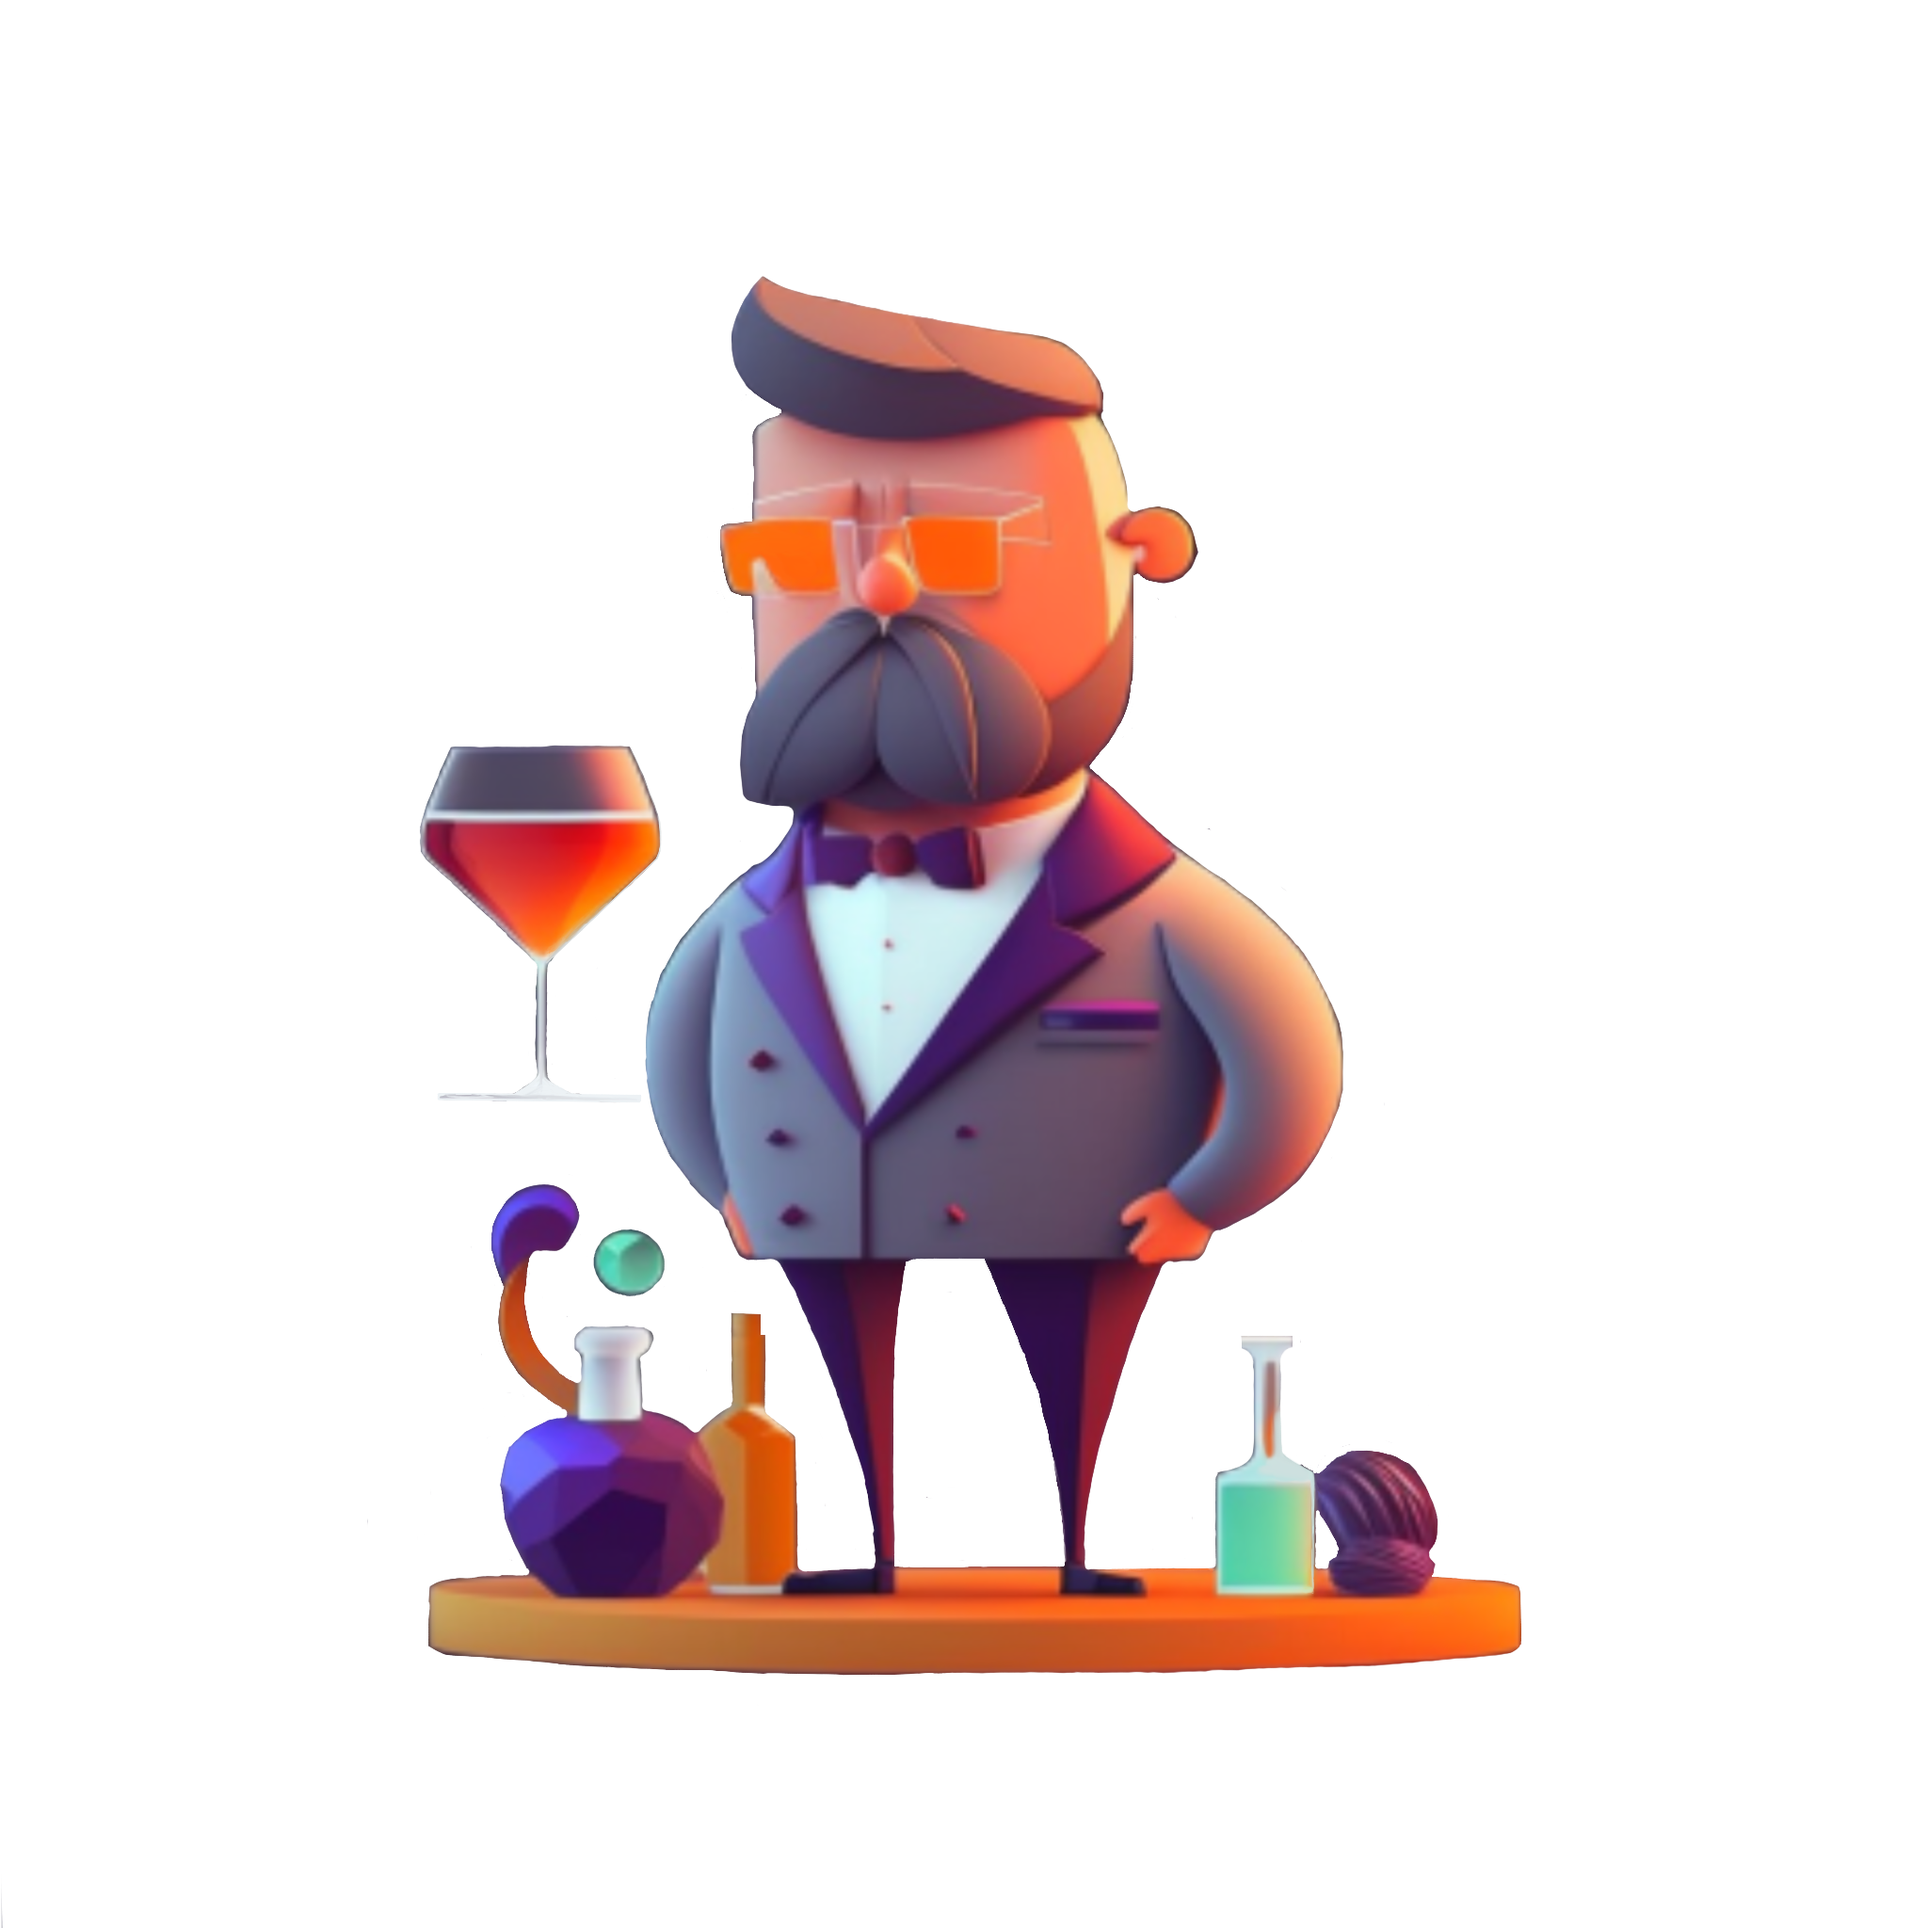
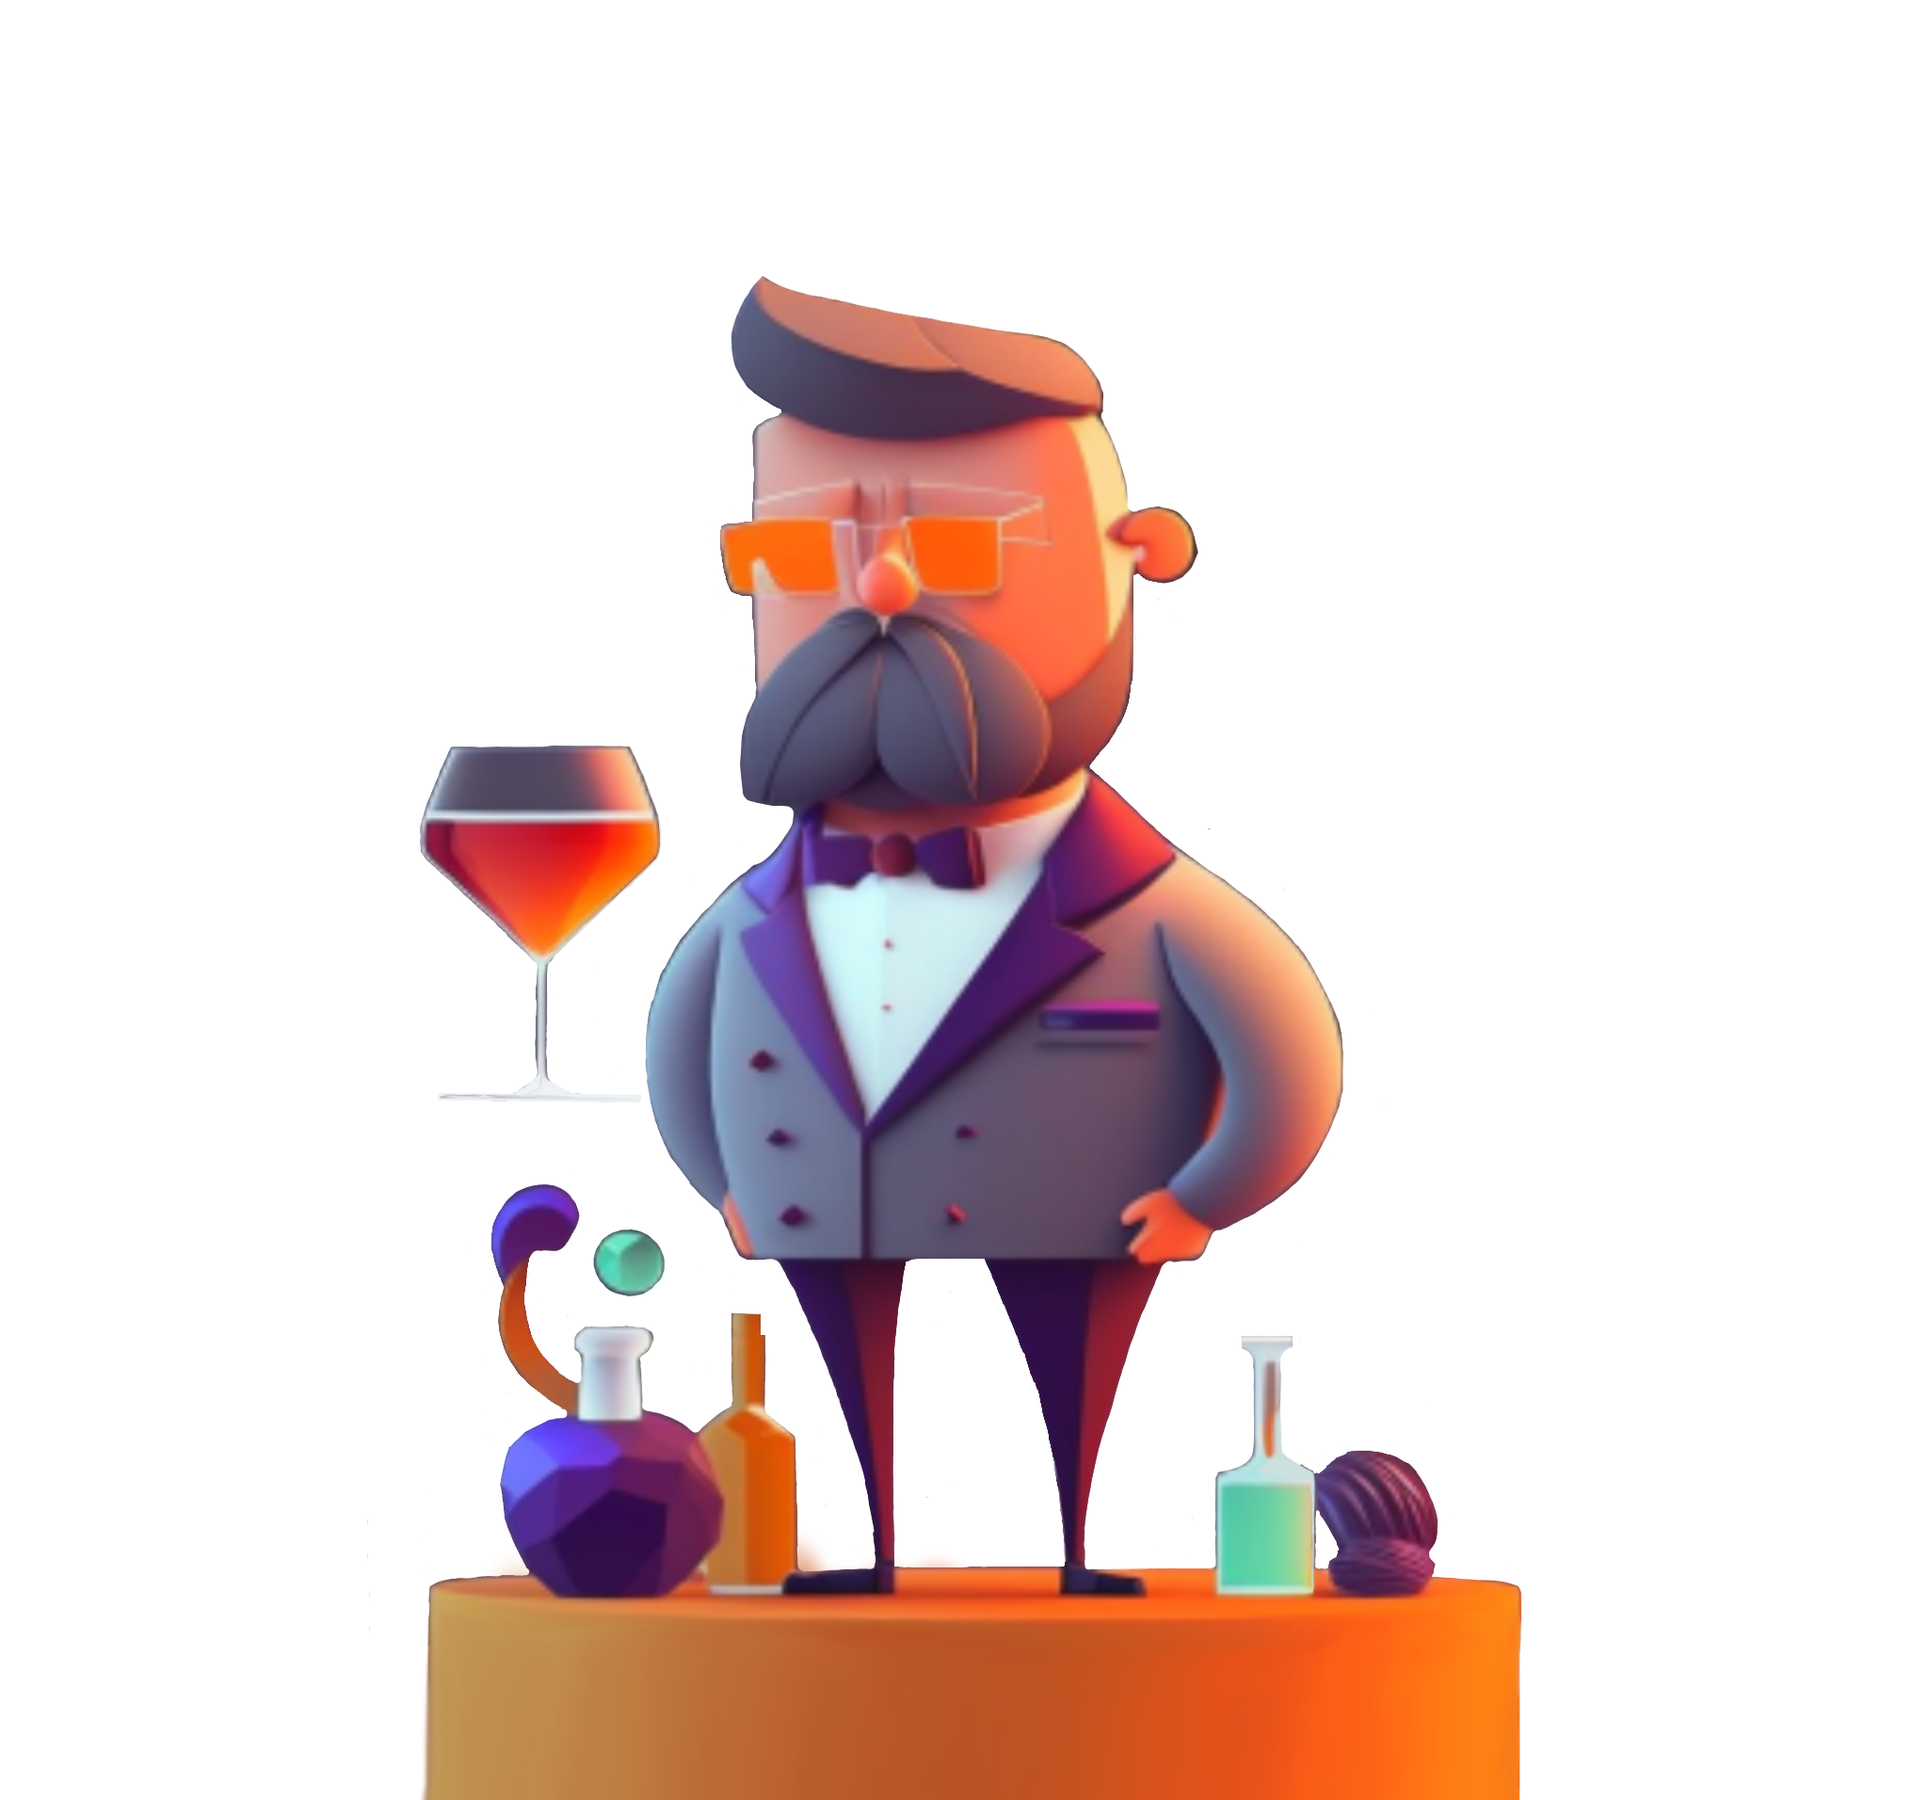
Initial Layout

Changed region(s): [[0.2188, 0.1234, 0.8125, 1.0]]

diff --git a/styles/style.css b/styles/style.css
@@ -3,6 +3,7 @@
   margin: 0;
   padding: 0;
   box-sizing: border-box;
+  border: 0.5px solid red;
 }
 img {
   display: block;
@@ -16,50 +17,67 @@ img {
   --g-2: rgb(58, 56, 77);
   --g-3: rgb(63, 59, 80);
   --g-4: rgb(72, 58, 75);
-  --g-5: rgb(72, 68, 90);
-  --g-6: rgb(120, 67, 75);
+  --g-5: rgb(120, 67, 75);
   /* font colors */
-  --fc-main: rgb(65, 65, 65);
+  --fc-main: rgb(201, 197, 187);
   --fc-sub: rgb(138, 230, 175);
   --fc-alt: rgb(235, 131, 52);
   /* fonts */
-  --f-main: 'Montserrat Alternates';
+  --f-main: 'Monofett';
   --f-sub: 'Fira Code';
 }
 body {
-  background-color: var(--bg-main);
   color: var(--fc-main);
-  font-family: var(--f-main);
-}
-section {
-  border: 2px solid rgb(255, 0, 0);
-}
-main {
-  background-color: var(--bg-sub);
-  border-radius: 1rem;
-  overflow: hidden;
+  background: linear-gradient(
+    to bottom left,
+    var(--g-1) 0%,
+    var(--g-2) 25%,
+    var(--g-3) 50%,
+    var(--g-4) 75%
+  );
+  font-family: var(--f-sub);
 }
 /* center */
 .wrapper {
   display: flex;
   justify-content: center;
-  align-items: center;
   min-height: 100vh;
 }
 /* layout */
 .container {
-  display: grid;
-  grid-template-columns: repeat(2, 1fr);
-}
-section:first-child {
-  width: 375px;
-}
-section:last-child {
-  width: 375px;
-}
-/* images */
-[alt='bartender'] {
+  position: relative;
   width: 100%;
   height: 100%;
+  overflow: hidden;
+  display: flex;
+  flex-direction: column;
+  align-items: center;
+}
+
+/* images */
+.bartender {
+  width: 300px;
+  transform: scaleX(-1);
 }
 /* typography */
+.form {
+  color: white;
+  background-color: var(--bg-main);
+  border-radius: 1rem 1rem 0 0;
+  min-width: 375px;
+}
+.title-main {
+  font-weight: bold;
+  font-size: 3rem;
+  font-family: var(--f-main);
+  letter-spacing: 10px;
+  text-align: center;
+  text-transform: uppercase;
+  text-shadow: 0 1px 0 var(--bg-main), 0 2px 0 var(--bg-main),
+    0 3px 0 var(--bg-main), 0 4px 0 var(--fc-alt), 0 5px 0 var(--fc-alt),
+    0 6px 0 var(--fc-alt);
+}
+.title-sub {
+  font-size: 0.8rem;
+  letter-spacing: 1px;
+}

diff --git a/index.html b/index.html
@@ -10,7 +10,7 @@
     <link rel="preconnect" href="https://fonts.googleapis.com" />
     <link rel="preconnect" href="https://fonts.gstatic.com" crossorigin />
     <link
-      href="https://fonts.googleapis.com/css2?family=Fira+Code:wght@500&family=Montserrat+Alternates:ital@0;1&display=swap"
+      href="https://fonts.googleapis.com/css2?family=Fira+Code:wght@500&family=Monofett&display=swap"
       rel="stylesheet" />
     <!-- favicon -->
     <link
@@ -21,19 +21,20 @@
     <!-- scripts -->
     <script defer src="./js/script.js"></script>
     <!-- title -->
-    <title>Whimsy Vineyards</title>
+    <title>Whimsy Wine</title>
   </head>
   <body>
     <div class="wrapper">
       <main class="container">
-        <section>
-          <img src="./images/hero-bartender.png" alt="bartender" />
+        <section class="graphics">
+          <img class="bartender" src="./images/bartender.png" alt="bartender" />
         </section>
-        <section class="title">
-          <h1 class="title-main">Whimsy Vineyards</h1>
-          <h5 class="title-sub">
-            Bringing a touch of whimsicality to your table
-          </h5>
+
+        <section class="form">
+          <h1 class="title-main">
+            Whimsy<br />
+            Wine
+          </h1>
         </section>
       </main>
     </div>
